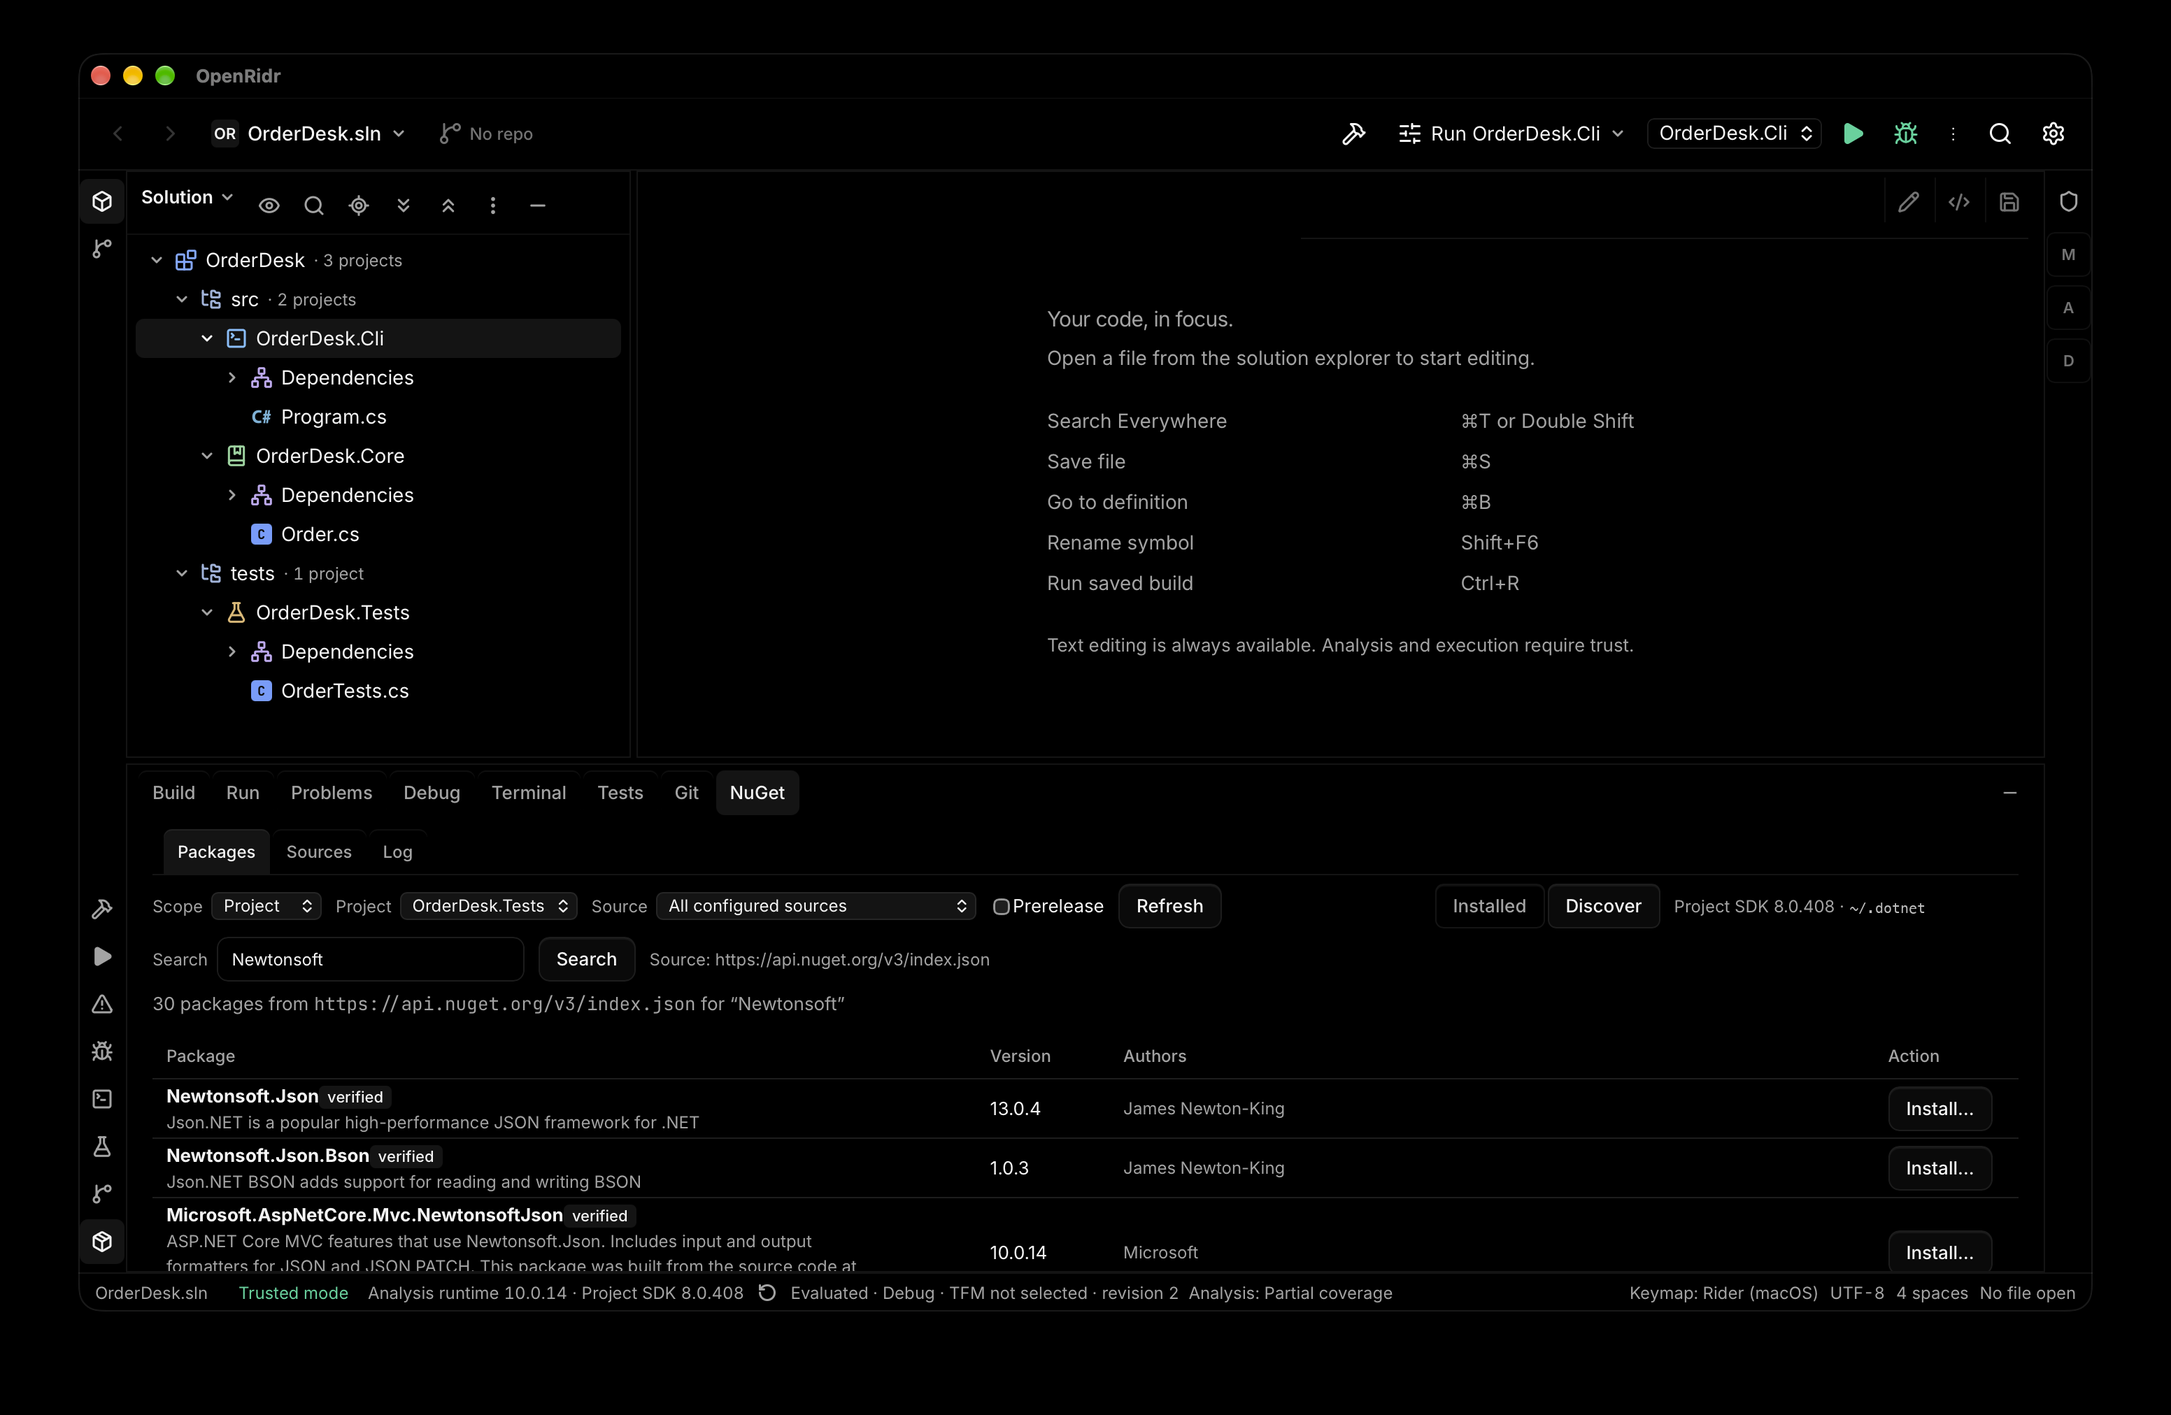
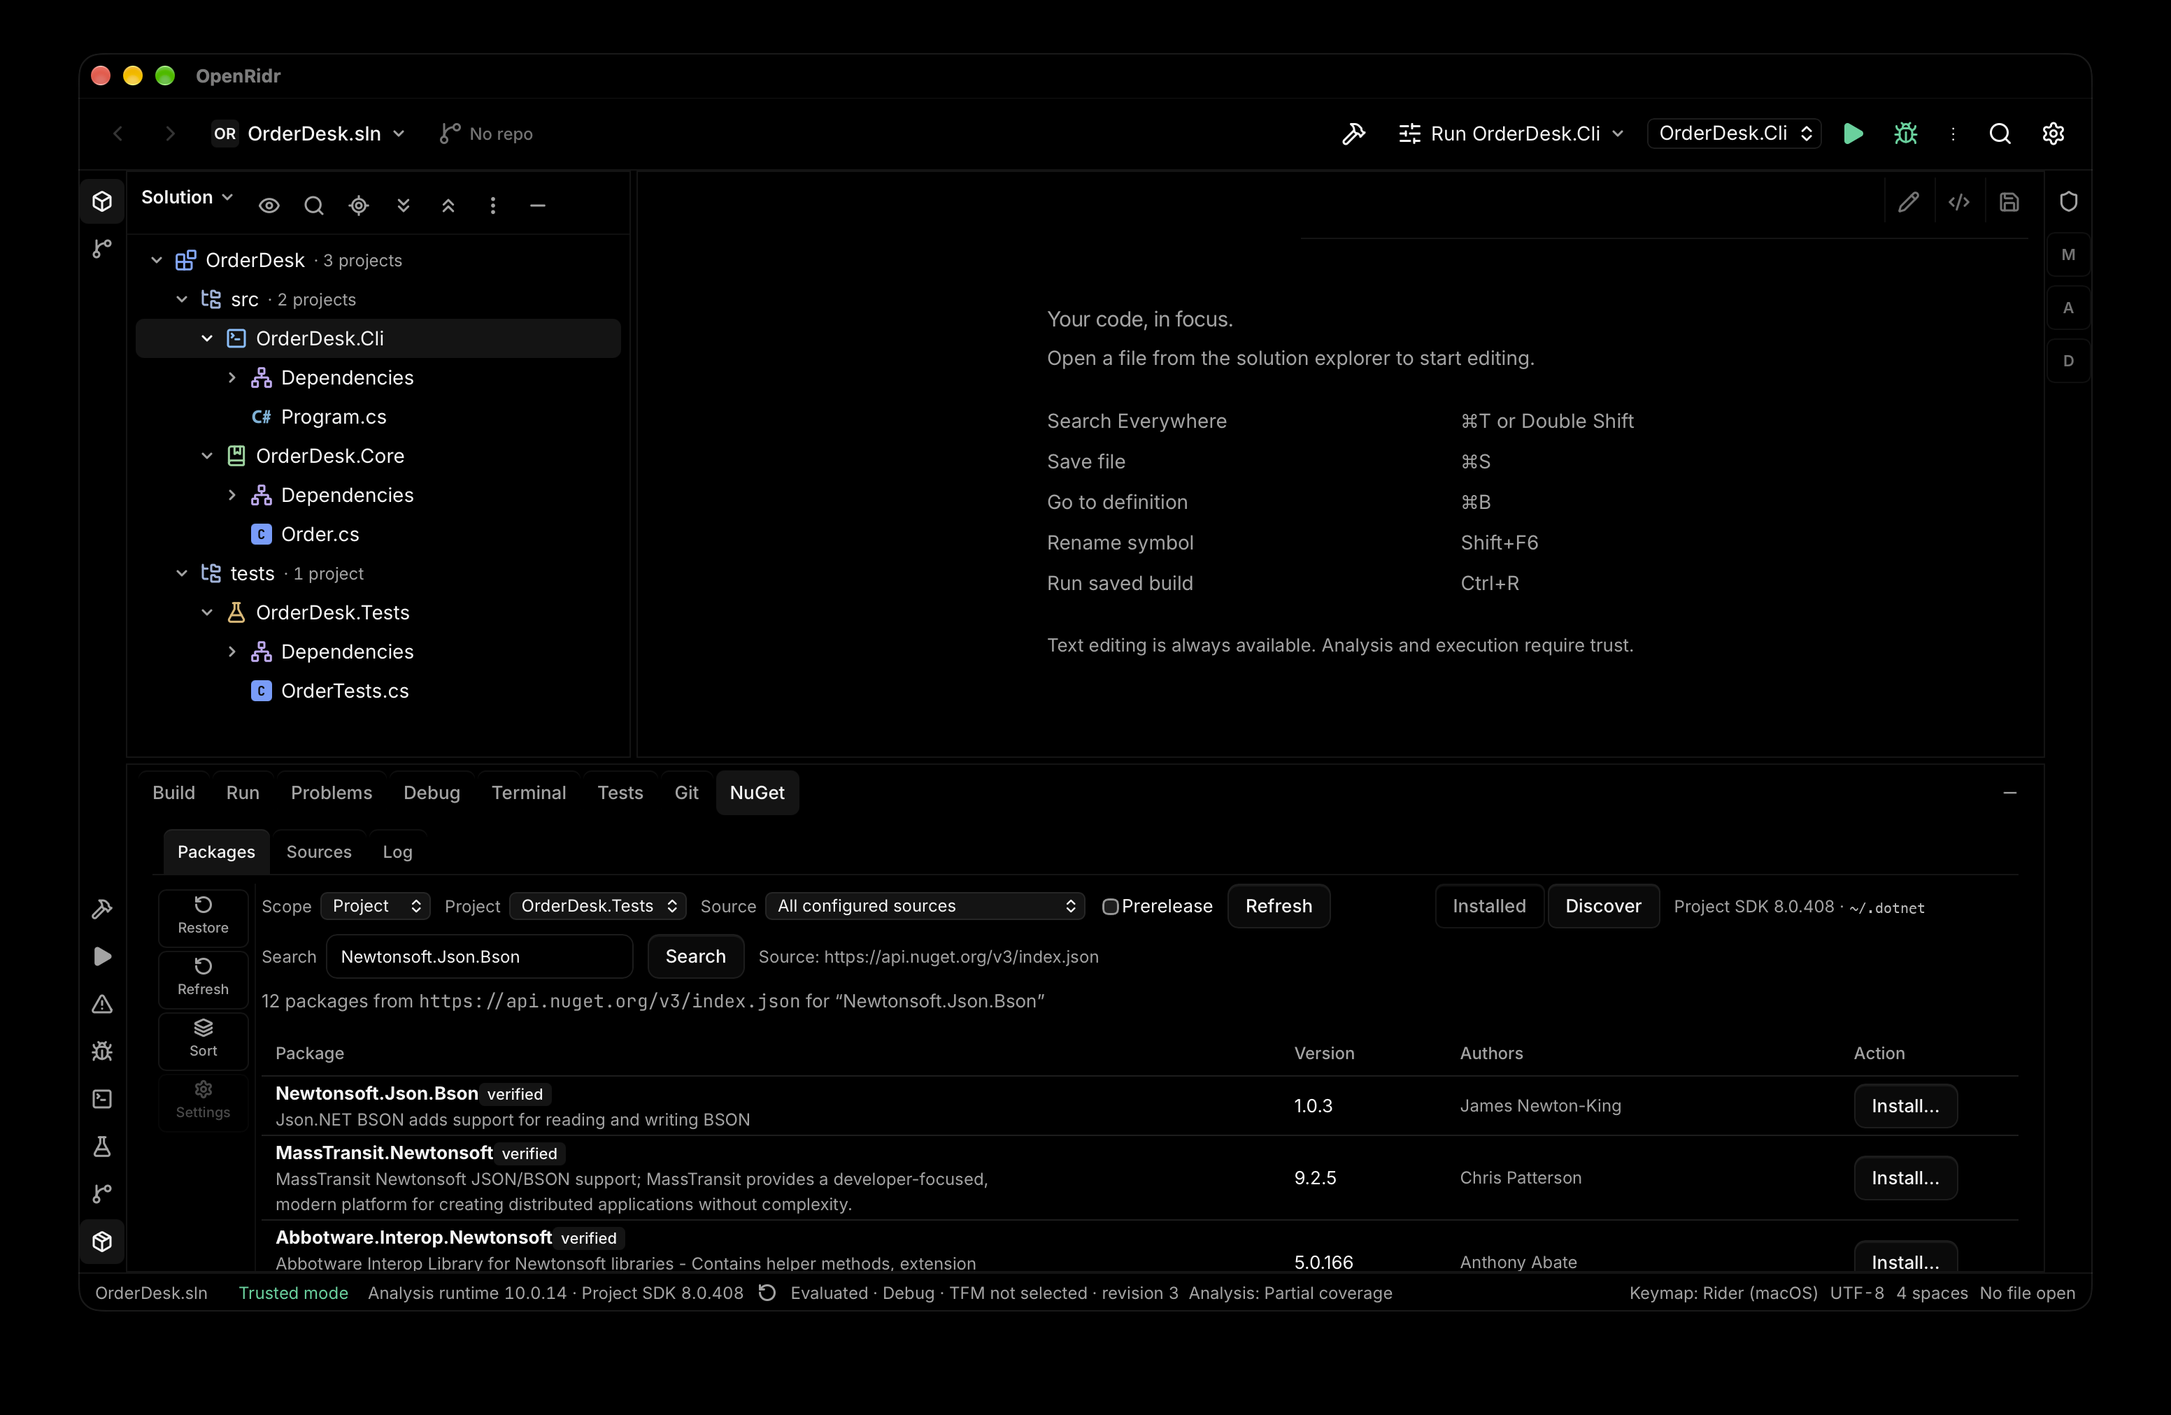
docs: record review fixes and desktop parity evidence

diff --git a/docs/decisions.md b/docs/decisions.md
@@ -824,3 +824,13 @@ Spec: `docs/SPEC-SOLUTION-EXPLORER-VISUAL.md`; gaps: `docs/GAPS-SOLUTION-EXPLORE
 - **Tests**: abas Explorer/Continuous Testing/Coverage (as duas últimas desabilitadas com motivo), contadores por resultado, estado agregado por grupo, painel de detalhe da seleção com duração, expandir/recolher tudo e exportação JSON para `appHome/exports/tests-*.json` via `tests.export`. A árvore continua derivada do FQN; não existe sessão "All tests from Solution" porque a descoberta é por projeto/TFM. Debug de teste, Continuous Testing e cobertura continuam sem capacidade no host e aparecem desabilitados, nunca simulados.
 - **NuGet**: escopo Projeto/Solução (`nuget.listSolution` agrega uma listagem real por projeto), fonte selecionada e prerelease passam para `dotnet list package --outdated` (`--source`, `--include-prerelease`), implícitos/transitivos vêm de `obj/project.assets.json` (ausência/erro é explícita), seleção de updates em lote (`nuget.planBatch`/`nuget.applyBatch`) com um `dotnet add` por pacote, falha por pacote e um restore explícito por projeto ao fim, e Discover (`nuget.search`) pela `SearchQueryService` v3 da fonte escolhida.
 - **Pendências explícitas**: instalação de um pacote descoberto e update em lote não foram confirmados contra um projeto real nesta máquina (os gates, planos e rejeições têm teste; o `dotnet add` real de lote não foi executado para não alterar a fixture). Escopo Solução não foi exercitado no app real. Debug de teste/Continuous Testing/cobertura seguem fora do host. Windows e macOS Intel não foram executados.
+
+## 2026-11-05 — Correções da revisão: lote, setup, assets, SSRF e saída
+
+- **Lote não mascara `dotnet add`:** `nuget::apply` devolve `UpdateResult{state:"failed"}` para exit ≠ 0 sem erro de host; `applyBatch` agora checa `state == "ok"`, conta a falha, propaga a mensagem e restaura somente projetos com pelo menos um update aplicado. CPM é recusado por item (o plano pode ser criado; `apply` falha só aquele item); o trust/contexto é rechecado antes de cada item; `download-N` é removido ao terminar/cancelar e temporários antigos são limpos.
+- **Instalação só de pacote verificado:** um `.openridr-integrity` válido cujo launcher não responde à versão fixa é descartado e a instalação volta ao `prepare_local_package` (fonte local + SHA-512). Launcher antigo sem registro não é adotado. `Reinstall` baixa para staging, verifica a cópia antes de promover e só troca o destino atomicamente; falha mantém a instalação anterior, inclusive o estado `ready`. A hash registrada é a do apphost; não há manifesto por DLL (limitação documentada), o pacote é que fixa o conteúdo.
+- **Setup é gate de host:** `trust.grant`, `trust.set` e todo `require_trust` recusam com `setup_required` enquanto o setup não estiver verificado. A UI não é a única barreira; o teste de host usa um seam público `#[doc(hidden)]` (`allow_setup_for_tests`) para os testes antigos de trust sem baixar ferramentas.
+- **Assets reais:** implícitos vêm de `project.frameworks.<tfm>.dependencies` com `autoReferenced: true` e de `downloadDependencies`; `targets` só fornece transitivos. TFM longo (`.NETStandard,Version=v2.0`) é normalizado, RID (`net8.0/osx-arm64`) é dobrado no TFM base e `BaseIntermediateOutputPath` é lido quando é literal. Limite: caminho com propriedades MSBuild não é avaliado.
+- **Discover/SSRF:** a fonte precisa estar em `dotnet nuget list source`; só HTTPS, hosts loopback/privados/link-local e userinfo são recusados no índice e no `@id`; redirects do `ureq` estão desligados. `dotnet list --source` passa pela mesma validação.
+- **Saída do app:** `WindowEvent::Destroyed` da janela principal, `ExitRequested` sem janela e `Exit` fecham o workspace, parando LSP/netcoredbg. `kill(-pid)` só é enviado enquanto o líder ainda existe; depois de reaped, o pgid pode ter sido reutilizado e não é sinalizado.
+- **Paridade visual:** Tests mantém a árvore após o run (estado agregado por nó, detalhe/duração no painel direito, barra vertical e aba de sessão); NuGet usa seções recolhíveis de updates/instalados/implícitos com checkbox geral, badge e barra vertical. `All tests from Solution` é rotulado com o projeto atual porque o host descobre por projeto/TFM; a aba não finge uma sessão de solução.

diff --git a/docs/evidence/tests-nuget-tools-setup/desktop.md b/docs/evidence/tests-nuget-tools-setup/desktop.md
@@ -2,7 +2,7 @@
 
 App real: `src-tauri/target/release/bundle/macos/OpenRidr.app` (build desta branch, assinatura ad-hoc),
 executado com `OPENRIDR_HOME=/tmp/openridr-desktop-home` e uma cópia de `fixtures/OrderDesk` em
-`/tmp/openridr-desktop-work/OrderDesk`. Nada foi instalado no sistema; o csharp-ls foi baixado para
+`/tmp/openridr-desktop-work3/OrderDesk` e `/tmp/openridr-desktop-work4/OrderDesk`. Nada foi instalado no sistema; o csharp-ls foi baixado para
 o home isolado. Capturas em `docs/evidence/tests-nuget-tools-setup/`. O diretório home foi substituído por `~` nas imagens para não publicar caminho pessoal.
 
 | Captura | O que prova |
@@ -10,10 +10,12 @@ o home isolado. Capturas em `docs/evidence/tests-nuget-tools-setup/`. O diretór
 | `desktop-setup-first-open.png` | Primeira abertura com home vazio: gate bloqueia o workspace, mostra progresso real (7.538.502 de 21.643.814 bytes), netcoredbg verificado e runtime .NET 10; sem plano/checkbox. |
 | `desktop-trust.png` / `desktop-workspace-trusted.png` | Setup concluiu antes do trust; workspace abre em Trusted mode. |
 | `desktop-setup-second-open.png` | Segunda abertura no mesmo home: vai direto ao workspace, sem gate e sem novo trust. |
-| `desktop-tests.png` | Tests com abas, contadores, expand/collapse, export, árvore e painel de detalhe; descoberta automática lista 4 testes. |
-| `desktop-tests-run.png` | Run all real: 4 resultados, 2 passed, 1 failed, 1 skipped, duração e detalhes por resultado. |
-| `desktop-nuget.png` / `desktop-nuget-tests.png` | NuGet com abas, escopo, fonte, prerelease, Installed/Discover, seção de updates e implícitos/transitivos; `OrderDesk.Tests` com 3 pacotes e 3 desatualizados. |
-| `desktop-nuget-discover.png` | Discover real: 30 resultados de `https://api.nuget.org/v3/index.json` para “Newtonsoft”, com versão, autores e ação Install. |
+| `desktop-tests.png` | Tests após run real: árvore projeto → namespace → classe → teste preservada, estado agregado (`1 failed`, `4 tests`), barra vertical, contadores, filtro/expand/export e detalhe do teste selecionado com status, duração, projeto e origem. |
+| `desktop-tests-run.png` | Run all real anterior, com 4 resultados (2 passed, 1 failed, 1 skipped) e detalhes por resultado. |
+| `desktop-nuget-tests.png` | NuGet em `OrderDesk.Tests` com 3 pacotes e 3 updates, seções “Packages to Update”, “Installed Packages” com badge e “Implicitly Installed”, checkbox geral e barra vertical. |
+| `desktop-nuget-batch.png` | Update em lote de `xunit` 2.9.2→2.9.3: “Batch update: 1 updated · 0 failed · 1 restore command(s) · restore ok”; o `.csproj` e o `project.assets.json` da cópia foram alterados. |
+| `desktop-nuget-solution.png` | Escopo Solution agregando os projetos reais; “Packages to Update in Solution: 2” e “Installed Packages in Solution: 3”. |
+| `desktop-nuget-discover.png` / `desktop-nuget-install.png` | Discover real pela fonte configurada e install de `Newtonsoft.Json.Bson` 1.0.3; o `.csproj` da cópia passou a referenciar o pacote e o restore explícito atualizou o assets. |
 | `desktop-tools-drawer.png` | Drawer de diagnóstico: netcoredbg embutido com versão, SHA-256 e caminho; sem flag experimental/consentimento; `Reinstall` presente. |
 
 ## Limites
@@ -21,6 +23,6 @@ o home isolado. Capturas em `docs/evidence/tests-nuget-tools-setup/`. O diretór
 - As capturas são da tela real do Mac, mas não provam Windows nem macOS Intel.
 - O runtime .NET 10 ausente foi exercitado só no host (`setup_reports_a_missing_bundled_adapter...`
   cobre o adapter; a mensagem de runtime tem teste de unidade), não no app desktop.
-- Install de pacote descoberto e update em lote não foram confirmados contra a fixture real; os
-  planos e as recusas estão cobertos por testes de host. A fixture não foi alterada.
-- Escopo Solução não foi aberto no app real; a agregação tem contrato no host, sem captura.
+- Update em lote e install descoberto foram feitos numa cópia descartável da fixture, com restore real; a fixture do repositório não foi alterada.
+- `BaseIntermediateOutputPath` com propriedades MSBuild, manifesto por DLL e sessão de solução real continuam fora do escopo/teste.
+- Saída por ⌘Q e por fechar a janela foram provadas com `pgrep -x openridr`, `csharp-ls` e `netcoredbg` vazio.

diff --git a/docs/implementation-notes.md b/docs/implementation-notes.md
@@ -1131,3 +1131,16 @@ Branch `fix/file-access-confinement`. Evidência completa em `docs/evidence/file
 - **Host**: `cargo test -p openridr-host --test host -- --test-threads=1` 88/88; `--test debugger` 14/14; `--lib` 245/245; `bun run check` limpo.
 - **Desktop real**: app `src-tauri/target/release/bundle/macos/OpenRidr.app` com `OPENRIDR_HOME=/tmp/openridr-desktop-home` e cópia de `fixtures/OrderDesk`. Primeira abertura mostrou o gate com download real (7.538.502 de 21.643.814 bytes), depois trust; segunda abertura abriu direto no workspace sem gate. Tests discovery 4, run 2 passed/1 failed/1 skipped; NuGet real 3 packages/3 outdated; Discover real 30 resultados de `api.nuget.org` para "Newtonsoft". Nenhum processo órfão (`openridr`, `csharp-ls`, `netcoredbg`, host HTTP, Vite) após fechar.
 - **Não verificado**: Windows/macOS Intel; runtime .NET 10 ausente no app real (mensagem/link têm teste de host, não captura desktop); confirmação real de update em lote/instalação de pacote descoberto (não alterei a fixture); escopo Solução no app real; Debug de teste, Continuous Testing e cobertura (sem capacidade no host).
+
+## Correções da revisão de 2026-11-05 (setup/tests/nuget)
+
+- **Lote** (`crates/host/src/lib.rs`): `nuget.applyBatch` confere `result.state`, conta `failed`, restaura só `updated_projects`, recheca trust/contexto por item, e `PlanRequest.defer_cpm` deixa o CPM falhar apenas no item. Testes `a_cpm_item_fails_alone...`, `a_failed_dotnet_add_is_counted_as_failed...`, `nuget_batch_plans...`.
+- **Ferramentas** (`crates/host/src/tools.rs`): `reusable_installation` só aceita integridade válida + `--version` correto; não adota launcher antigo. `begin_install(force)` usa staging e `restore_previous` mantém a instalação antiga em falha; `download-N` é limpo. Testes `a_persisted_launcher_that_fails...`, `failed_reinstall_keeps...`, `cleanup_removes_only...`.
+- **Gate de host** (`lib.rs`): `is_setup_ready` + `require_trust`/`grant_locked` retornam `setup_required`; seam `allow_setup_for_tests` só para testes Rust. Teste `trust_and_executable_methods...`.
+- **Assets** (`nuget.rs`): leitura de `project.frameworks.dependencies`/`downloadDependencies`, normalização de TFM longo, dedupe de RID, `BaseIntermediateOutputPath` literal. Testes reais (restore de projeto netstandard2.0 e net8.0 com RID) e unitário sintético para `downloadDependencies`.
+- **Discover** (`nuget.rs`/`lib.rs`): fonte configurada + HTTPS público, redirects 0, `@id` validado; `dotnet list --source` passa por `validate_source_arg`. Testes `source_validation...`, `discover_only_accepts...`.
+- **Saída** (`src-tauri/src/main.rs`, `process.rs`, `lib.rs`): fecha workspace em Destroyed/ExitRequested sem janela/Exit; `kill_group`/`stop_remaining_group` só sinalizam líder vivo. `never_signals_a_reaped_leader_group`. Prova desktop: ⌘Q e fechar a janela com `pgrep -x openridr/csharp-ls/netcoredbg` vazio.
+- **UI**: Tests com `tests-body` (barra vertical, conteúdo e `tests-side`), árvore preservada, detalhe e run no painel direito, aba `tests-tab-session`; NuGet com `nuget-updates-section`, `nuget-installed-section`, `nuget-implicit-section`, badge e `nuget-actions`. Testids antigos preservados; `tests-tab-session` usa o nome do projeto (não afirma sessão de solução).
+- **Provas**: `cargo test --workspace` (após as correções) e E2E `tests`, `nuget`, `setup-gate-layout`, `tools-install-ux`, `analysis-gate`, `debugger` (bundled), `csharp-ls` (problems), `trust-prompt`, `welcome`, `medium-editor-session`, `disabled-states`, `medium-nav-layout`, `qa1-analysis`. `bun test tests/unit` 26/26; `bun run check` limpo.
+- **App real**: primeira/segunda abertura, Tests run, NuGet `OrderDesk.Tests` com 3 updates, update em lote de `xunit` 2.9.2→2.9.3 (1 updated, restore ok, csproj/obj alterados), Discover `Newtonsoft.Json.Bson` 1.0.3 instalado e restore real, escopo Solution. `pgrep -x` vazio após ⌘Q e após fechar a última janela.
+- **Não verificado**: Windows/macOS Intel; caminho `BaseIntermediateOutputPath` com propriedades MSBuild; manifesto por DLL (limitação documentada); sessão de solução real; Debug de teste/Continuous/Coverage.

diff --git a/docs/RETRO-TESTS-NUGET-TOOLS-SETUP.md b/docs/RETRO-TESTS-NUGET-TOOLS-SETUP.md
@@ -22,3 +22,13 @@
 - Windows, macOS Intel e runtime .NET 10 ausente no app real.
 - Confirmação real de update em lote e de install descoberto; escopo Solução no app real.
 - Debug de teste, Continuous Testing, cobertura e sessão "All tests from Solution" continuam fora do host.
+
+## Rodada de revisão (2026-11-05, segunda)
+
+- **Lote de update**: o erro real estava no caminho `Ok(UpdateResult{state:"failed"})`, que parecia sucesso; o teste com csproj malformado (dotnet add sai ≠0) fixa o comportamento, e CPM passou a falhar por item. Restore só roda nos projetos atualizados, trust é rechecado por item e `download-N` é limpo.
+- **Setup**: o gate passou para `require_trust`/`grant_locked`; a UI não é mais a única barreira. O seam de teste `allow_setup_for_tests` é público mas `#[doc(hidden)]`, inalcançável pelo dispatch/HTTP. Launcher sem integridade não é mais adotado; reinstall usa staging e preserva a instalação anterior em falha.
+- **Assets**: a leitura antiga de `autoReferenced` em `targets` era fictícia; agora vem de `project.frameworks.dependencies`/`downloadDependencies`, com testes que restauram netstandard2.0 e net8.0+RID de verdade.
+- **Discover**: fonte e `@id` passam por validação de HTTPS/host público, redirects desligados e fonte precisa estar configurada; `dotnet list --source` usa a mesma checagem.
+- **Saída**: fechar a janela/⌘Q fecha o workspace antes do exit; `kill(-pid)` só acontece com líder vivo, evitando pgid reciclado. `pgrep -x` vazio nas duas saídas.
+- **Visual**: a árvore de Tests ficou à esquerda com detalhe à direita, barra vertical e aba de sessão; NuGet trocou a tabela por seções recolhíveis com checkbox geral, badge e barra vertical. `All tests from Solution` não foi rotulado assim porque o host continua por projeto/TFM.
+- **Lição**: testes de UI antigos que codificavam plano/flag precisam ser reescritos quando o produto muda de fluxo; o gate de setup quebrou o teste de propriedade de trust e os testes de LSP — usar o seam de setup explicitamente, never esconder a condição no helper de UI.
